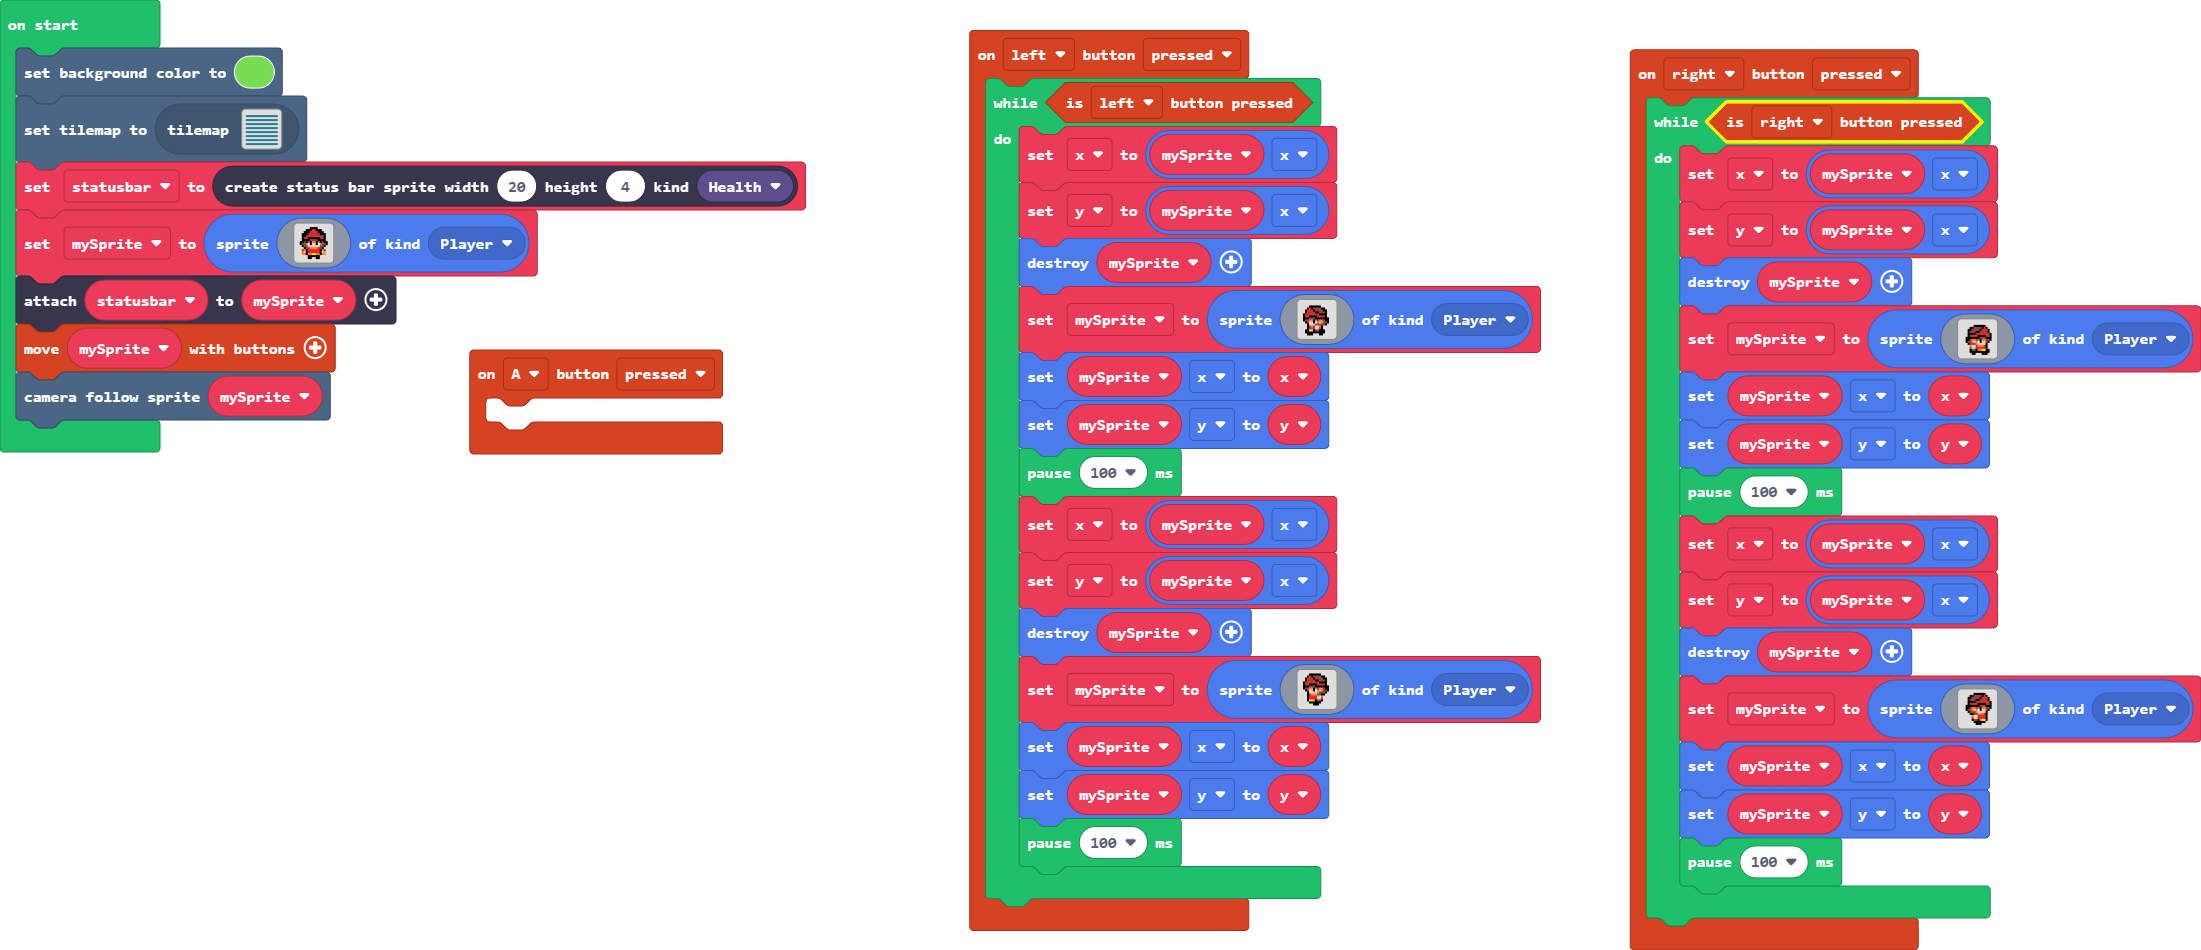
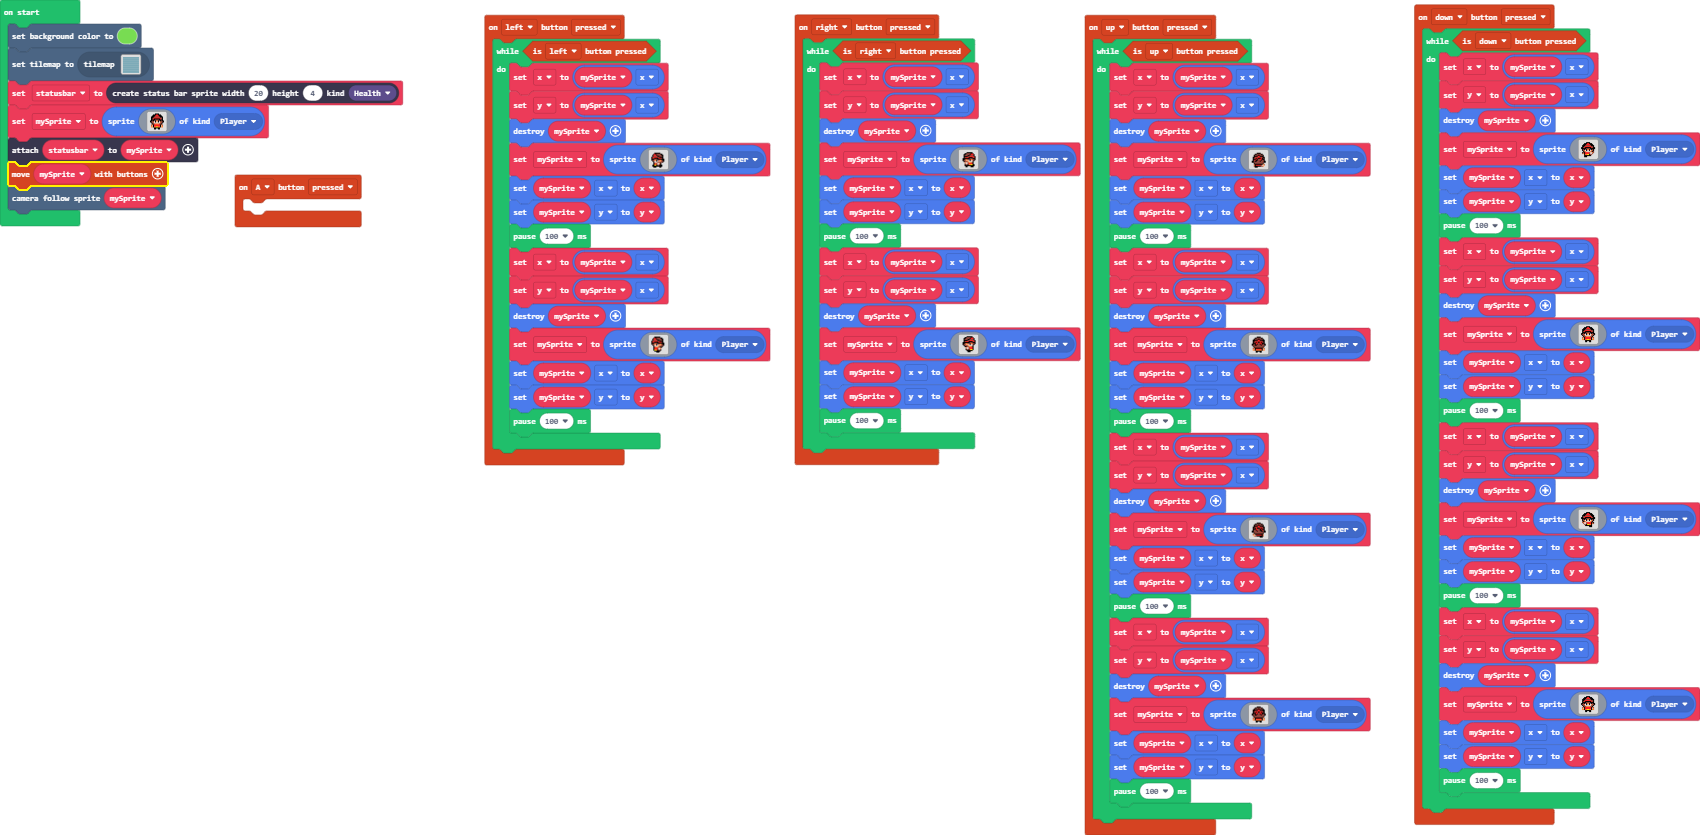
Update main.blocks, main.ts

diff --git a/main.ts b/main.ts
@@ -1,3 +1,103 @@
+controller.up.onEvent(ControllerButtonEvent.Pressed, function () {
+    while (controller.up.isPressed()) {
+        x = mySprite.x
+        y = mySprite.x
+        sprites.destroy(mySprite)
+        mySprite = sprites.create(img`
+            . . . . . . . . . . . . . . . . 
+            . . . . . . f f f f . . . . . . 
+            . . . . f f e e e e f f . . . . 
+            . . . f e e e f f e e e f . . . 
+            . . . f f f f 2 2 f f f f . . . 
+            . . f f e 2 e 2 2 e 2 e f f . . 
+            . . f e 2 f 2 f f f 2 f e f . . 
+            . . f f f 2 f e e 2 2 f f f . . 
+            . . f e 2 f f e e 2 f e e f . . 
+            . f f e f f e e e f e e e f f . 
+            . f f e e e e e e e e e e f f . 
+            . . . f e e e e e e e e f . . . 
+            . . . e f f f f f f f f 4 e . . 
+            . . . 4 f 2 2 2 2 2 e d d 4 . . 
+            . . . e f f f f f f e e 4 . . . 
+            . . . . f f f . . . . . . . . . 
+            `, SpriteKind.Player)
+        mySprite.x = x
+        mySprite.y = y
+        pause(100)
+        x = mySprite.x
+        y = mySprite.x
+        sprites.destroy(mySprite)
+        mySprite = sprites.create(img`
+            . . . . . . f f f f . . . . . . 
+            . . . . f f e e e e f f . . . . 
+            . . . f e e e f f e e e f . . . 
+            . . f f f f f 2 2 f f f f f . . 
+            . . f f e 2 e 2 2 e 2 e f f . . 
+            . . f e 2 f 2 f f 2 f 2 e f . . 
+            . . f f f 2 2 e e 2 2 f f f . . 
+            . f f e f 2 f e e f 2 f e f f . 
+            . f e e f f e e e e f e e e f . 
+            . . f e e e e e e e e e e f . . 
+            . . . f e e e e e e e e f . . . 
+            . . e 4 f f f f f f f f 4 e . . 
+            . . 4 d f 2 2 2 2 2 2 f d 4 . . 
+            . . 4 4 f 4 4 4 4 4 4 f 4 4 . . 
+            . . . . . f f f f f f . . . . . 
+            . . . . . f f . . f f . . . . . 
+            `, SpriteKind.Player)
+        mySprite.x = x
+        mySprite.y = y
+        pause(100)
+        x = mySprite.x
+        y = mySprite.x
+        sprites.destroy(mySprite)
+        mySprite = sprites.create(img`
+            . . . . . . . . . . . . . . . . 
+            . . . . . . f f f f . . . . . . 
+            . . . . f f e e e e f f . . . . 
+            . . . f e e e f f e e e f . . . 
+            . . . f f f f 2 2 f f f f . . . 
+            . . f f e 2 e 2 2 e 2 e f f . . 
+            . . f e f 2 f f f 2 f 2 e f . . 
+            . . f f f 2 2 e e f 2 f f f . . 
+            . . f e e f 2 e e f f 2 e f . . 
+            . f f e e e f e e e f f e f f . 
+            . f f e e e e e e e e e e f f . 
+            . . . f e e e e e e e e f . . . 
+            . . e 4 f f f f f f f f e . . . 
+            . . 4 d d e 2 2 2 2 2 f 4 . . . 
+            . . . 4 e e f f f f f f e . . . 
+            . . . . . . . . . f f f . . . . 
+            `, SpriteKind.Player)
+        mySprite.x = x
+        mySprite.y = y
+        pause(100)
+        x = mySprite.x
+        y = mySprite.x
+        sprites.destroy(mySprite)
+        mySprite = sprites.create(img`
+            . . . . . . f f f f . . . . . . 
+            . . . . f f e e e e f f . . . . 
+            . . . f e e e f f e e e f . . . 
+            . . f f f f f 2 2 f f f f f . . 
+            . . f f e 2 e 2 2 e 2 e f f . . 
+            . . f e 2 f 2 f f 2 f 2 e f . . 
+            . . f f f 2 2 e e 2 2 f f f . . 
+            . f f e f 2 f e e f 2 f e f f . 
+            . f e e f f e e e e f e e e f . 
+            . . f e e e e e e e e e e f . . 
+            . . . f e e e e e e e e f . . . 
+            . . e 4 f f f f f f f f 4 e . . 
+            . . 4 d f 2 2 2 2 2 2 f d 4 . . 
+            . . 4 4 f 4 4 4 4 4 4 f 4 4 . . 
+            . . . . . f f f f f f . . . . . 
+            . . . . . f f . . f f . . . . . 
+            `, SpriteKind.Player)
+        mySprite.x = x
+        mySprite.y = y
+        pause(100)
+    }
+})
 controller.A.onEvent(ControllerButtonEvent.Pressed, function () {
 	
 })
@@ -99,6 +199,106 @@ controller.right.onEvent(ControllerButtonEvent.Pressed, function () {
             . . . . . f e e f 4 5 5 f . . . 
             . . . . . . f f f f f f . . . . 
             . . . . . . . f f f . . . . . . 
+            `, SpriteKind.Player)
+        mySprite.x = x
+        mySprite.y = y
+        pause(100)
+    }
+})
+controller.down.onEvent(ControllerButtonEvent.Pressed, function () {
+    while (controller.down.isPressed()) {
+        x = mySprite.x
+        y = mySprite.x
+        sprites.destroy(mySprite)
+        mySprite = sprites.create(img`
+            . . . . . . . . . . . . . . . . 
+            . . . . . . f f f f . . . . . . 
+            . . . . f f f 2 2 f f f . . . . 
+            . . . f f f 2 2 2 2 f f f . . . 
+            . . f f f e e e e e e f f f . . 
+            . . f f e 2 2 2 2 2 2 e e f . . 
+            . f f e 2 f f f f f f 2 e f f . 
+            . f f f f f e e e e f f f f f . 
+            . . f e f b f 4 4 f b f e f . . 
+            . . f e 4 1 f d d f 1 4 e f . . 
+            . . . f e 4 d d d d 4 e f e . . 
+            . . f e f 2 2 2 2 e d d 4 e . . 
+            . . e 4 f 2 2 2 2 e d d e . . . 
+            . . . . f 4 4 5 5 f e e . . . . 
+            . . . . f f f f f f f . . . . . 
+            . . . . f f f . . . . . . . . . 
+            `, SpriteKind.Player)
+        mySprite.x = x
+        mySprite.y = y
+        pause(100)
+        x = mySprite.x
+        y = mySprite.x
+        sprites.destroy(mySprite)
+        mySprite = sprites.create(img`
+            . . . . . . f f f f . . . . . . 
+            . . . . f f f 2 2 f f f . . . . 
+            . . . f f f 2 2 2 2 f f f . . . 
+            . . f f f e e e e e e f f f . . 
+            . . f f e 2 2 2 2 2 2 e e f . . 
+            . . f e 2 f f f f f f 2 e f . . 
+            . . f f f f e e e e f f f f . . 
+            . f f e f b f 4 4 f b f e f f . 
+            . f e e 4 1 f d d f 1 4 e e f . 
+            . . f e e d d d d d d e e f . . 
+            . . . f e e 4 4 4 4 e e f . . . 
+            . . e 4 f 2 2 2 2 2 2 f 4 e . . 
+            . . 4 d f 2 2 2 2 2 2 f d 4 . . 
+            . . 4 4 f 4 4 5 5 4 4 f 4 4 . . 
+            . . . . . f f f f f f . . . . . 
+            . . . . . f f . . f f . . . . . 
+            `, SpriteKind.Player)
+        mySprite.x = x
+        mySprite.y = y
+        pause(100)
+        x = mySprite.x
+        y = mySprite.x
+        sprites.destroy(mySprite)
+        mySprite = sprites.create(img`
+            . . . . . . . . . . . . . . . . 
+            . . . . . . f f f f . . . . . . 
+            . . . . f f f 2 2 f f f . . . . 
+            . . . f f f 2 2 2 2 f f f . . . 
+            . . f f f e e e e e e f f f . . 
+            . . f e e 2 2 2 2 2 2 e f f . . 
+            . f f e 2 f f f f f f 2 e f f . 
+            . f f f f f e e e e f f f f f . 
+            . . f e f b f 4 4 f b f e f . . 
+            . . f e 4 1 f d d f 1 4 e f . . 
+            . . e f e 4 d d d d 4 e f . . . 
+            . . e 4 d d e 2 2 2 2 f e f . . 
+            . . . e d d e 2 2 2 2 f 4 e . . 
+            . . . . e e f 5 5 4 4 f . . . . 
+            . . . . . f f f f f f f . . . . 
+            . . . . . . . . . f f f . . . . 
+            `, SpriteKind.Player)
+        mySprite.x = x
+        mySprite.y = y
+        pause(100)
+        x = mySprite.x
+        y = mySprite.x
+        sprites.destroy(mySprite)
+        mySprite = sprites.create(img`
+            . . . . . . f f f f . . . . . . 
+            . . . . f f f 2 2 f f f . . . . 
+            . . . f f f 2 2 2 2 f f f . . . 
+            . . f f f e e e e e e f f f . . 
+            . . f f e 2 2 2 2 2 2 e e f . . 
+            . . f e 2 f f f f f f 2 e f . . 
+            . . f f f f e e e e f f f f . . 
+            . f f e f b f 4 4 f b f e f f . 
+            . f e e 4 1 f d d f 1 4 e e f . 
+            . . f e e d d d d d d e e f . . 
+            . . . f e e 4 4 4 4 e e f . . . 
+            . . e 4 f 2 2 2 2 2 2 f 4 e . . 
+            . . 4 d f 2 2 2 2 2 2 f d 4 . . 
+            . . 4 4 f 4 4 5 5 4 4 f 4 4 . . 
+            . . . . . f f f f f f . . . . . 
+            . . . . . f f . . f f . . . . . 
             `, SpriteKind.Player)
         mySprite.x = x
         mySprite.y = y
